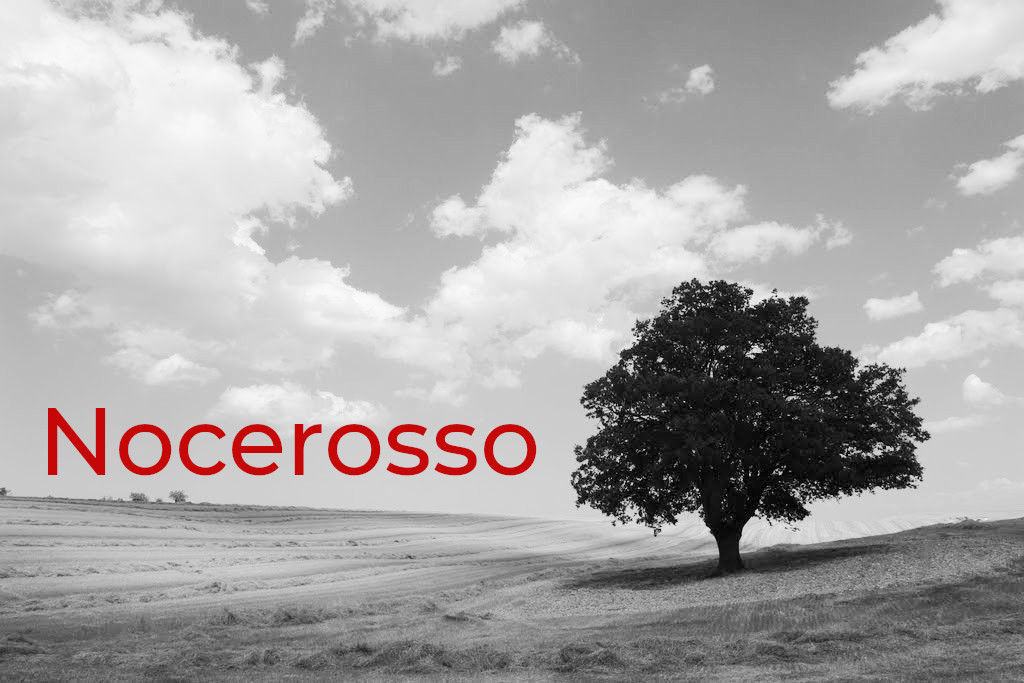
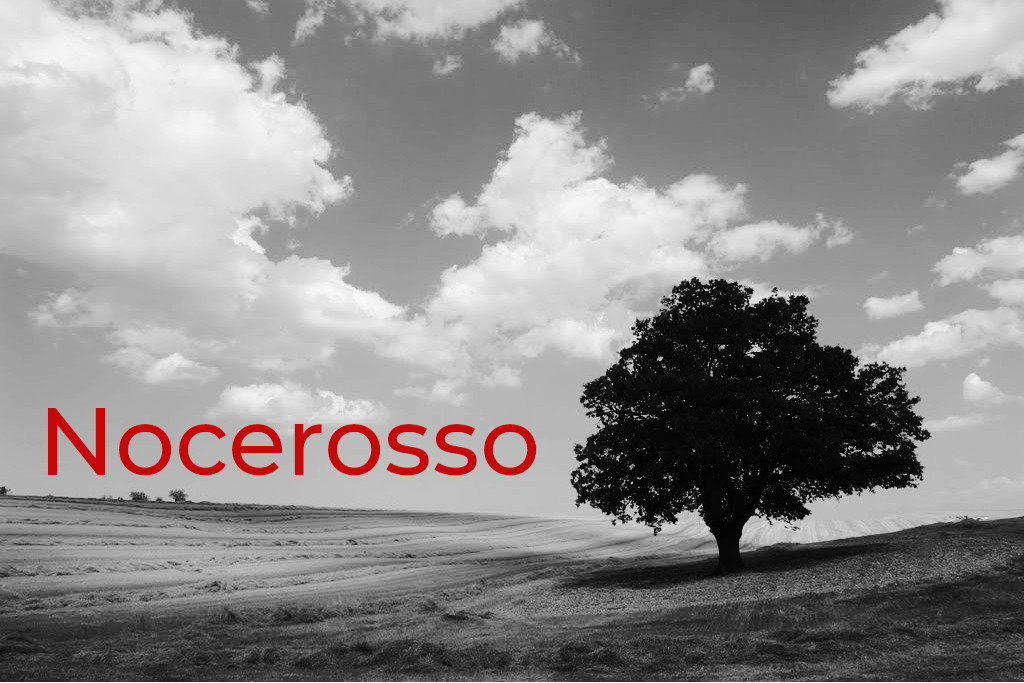
correzione gamma

diff --git a/docs/index.html b/docs/index.html
@@ -10,8 +10,9 @@
         <!-- Font Awesome icons (free version)-->
         <script src="https://use.fontawesome.com/releases/v5.15.1/js/all.js" crossorigin="anonymous"></script>
         <!-- Google fonts-->
-        <link href="https://fonts.googleapis.com/css?family=Varela+Round" rel="stylesheet" />
-        <link href="https://fonts.googleapis.com/css?family=Nunito:200,200i,300,300i,400,400i,600,600i,700,700i,800,800i,900,900i" rel="stylesheet" />
+     <link href="https://fonts.googleapis.com/css?family=Varela+Round" rel="stylesheet" />
+     <link href="https://fonts.googleapis.com/css?family=Nunito:200,200i,300,300i,400,400i,600,600i,700,700i,800,800i,900,900i" rel="stylesheet" />
+     <link href="https://fonts.googleapis.com/css2?family=Montserrat&family=Montserrat+Alternates:ital,wght@0,400;0,600;0,700;1,300&display=swap" rel="stylesheet" /> 
         <!-- Core theme CSS (includes Bootstrap)-->
         <link href="css/styles.css" rel="stylesheet" />
     </head>
@@ -28,24 +29,21 @@
                     <ul class="navbar-nav ml-auto">
                         <li class="nav-item"><a class="nav-link js-scroll-trigger" href="#about">About</a></li>
                         <li class="nav-item"><a class="nav-link js-scroll-trigger" href="#projects">Projects</a></li>
-                        <li class="nav-item"><a class="nav-link js-scroll-trigger" href="#signup">Contact</a></li>
+                        <li class="nav-item"><a class="nav-link js-scroll-trigger" href="#contact">Contact</a></li>
         
                     </ul>
                 </div>
             </div>
         </nav>
-        <!-- Masthead-->
-        
         <header class="masthead">
 
         </header>
-
         </section>
         
         
 
         <!-- Contact-->
-        <section class="contact-section bg-black">
+        <section class="contact-section bg-black"  id="contact" >
             <div class="container">
                 <div class="row">
                     <div class="col-md-4 mb-3 mb-md-0">

diff --git a/docs/css/styles.css b/docs/css/styles.css
@@ -10194,7 +10194,7 @@ body {
 .btn {
   box-shadow: 0 0.1875rem 0.1875rem 0 rgba(0, 0, 0, 0.1) !important;
   padding: 1.25rem 2rem;
-  font-family: "Varela Round", -apple-system, BlinkMacSystemFont, "Segoe UI", Roboto, "Helvetica Neue", Arial, sans-serif, "Apple Color Emoji", "Segoe UI Emoji", "Segoe UI Symbol", "Noto Color Emoji";
+  font-family: "Montserrat&family", -apple-system, BlinkMacSystemFont, "Segoe UI", Roboto, "Helvetica Neue", Arial, sans-serif, "Apple Color Emoji", "Segoe UI Emoji", "Segoe UI Symbol", "Noto Color Emoji";
   font-size: 80%;
   text-transform: uppercase;
   letter-spacing: 0.15rem;
@@ -10205,22 +10205,21 @@ body {
   position: relative;
   width: 100%;
   height: auto;
-  min-height: 35rem;
+  min-height: 20rem;
   padding: 15rem 0;
-  background: linear-gradient(to bottom, rgba(0, 0, 0, 0.9) 0%, rgba(0, 0, 0, 0.1) 80%, #000000 100%), url("../assets/img/bg-masthead.jpg");
-  
-  background-position: center;
-  
+  background: linear-gradient(to bottom, rgba(0, 0, 0, 0.2) 20%, rgba(0, 0, 0, 0.01) 90%, #000000 100%), url("../assets/img/bg-masthead.jpg");
+  background-position: left;
   background-repeat: no-repeat;
   background-attachment: scroll;
   background-size: cover;
 }
 .masthead h1 {
-  font-family: "Varela Round", -apple-system, BlinkMacSystemFont, "Segoe UI", Roboto, "Helvetica Neue", Arial, sans-serif, "Apple Color Emoji", "Segoe UI Emoji", "Segoe UI Symbol", "Noto Color Emoji";
+  font-family: "Montserrat";
   font-size: 2.5rem;
   line-height: 2.5rem;
-  letter-spacing: 0.8rem;
-  background: linear-gradient(rgba(255, 255, 255, 0.9), rgba(255, 255, 255, 0));
+
+  background: linear-gradient(rgba(198, 7, 7, 0.9), rgba(255, 255, 255, 0));
+
   -webkit-text-fill-color: transparent;
   -webkit-background-clip: text;
           background-clip: text;
